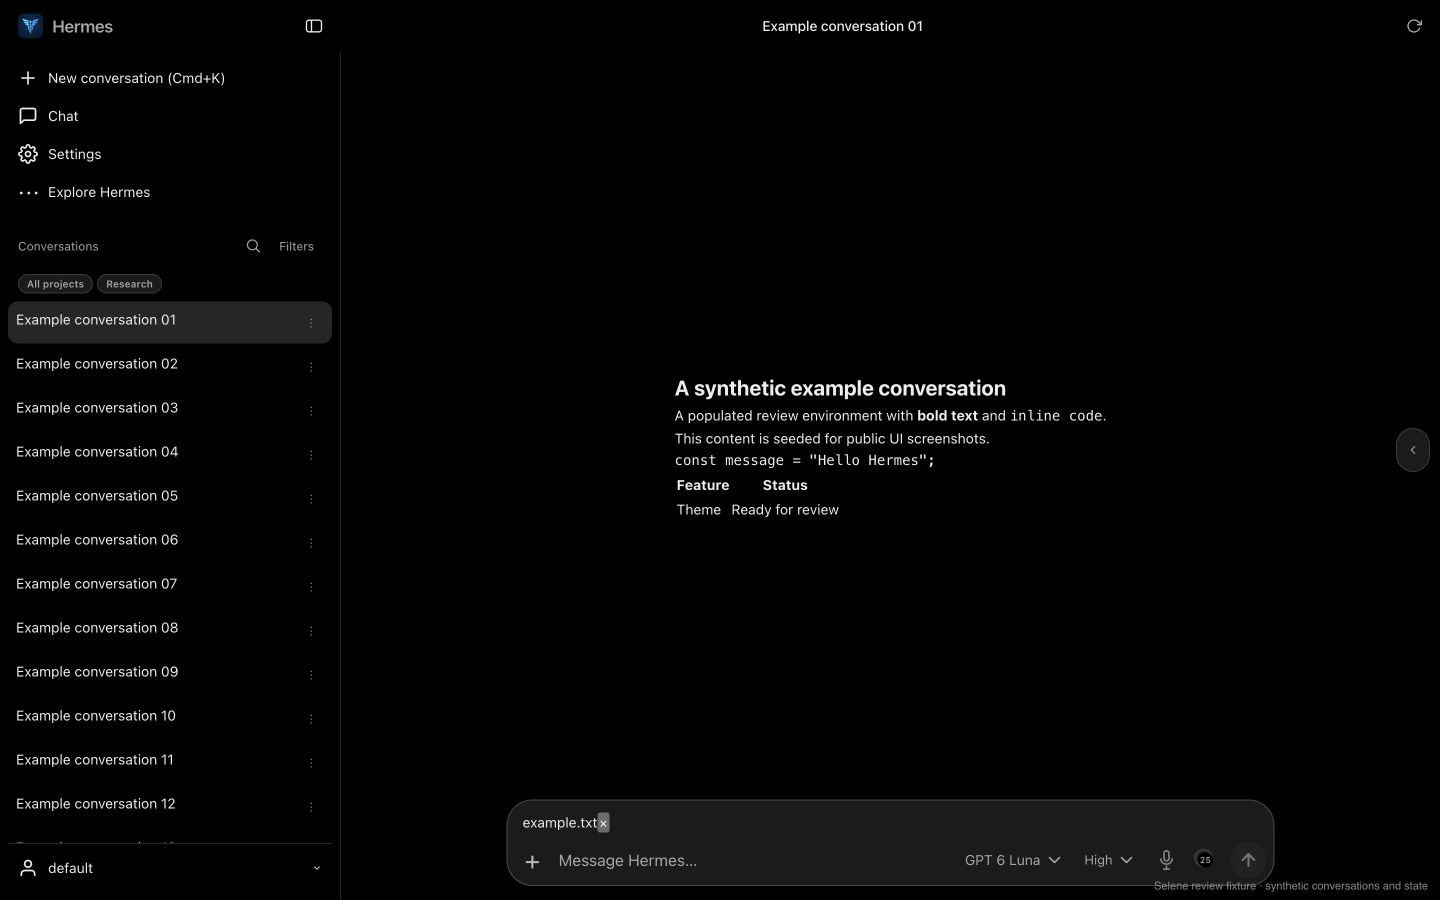
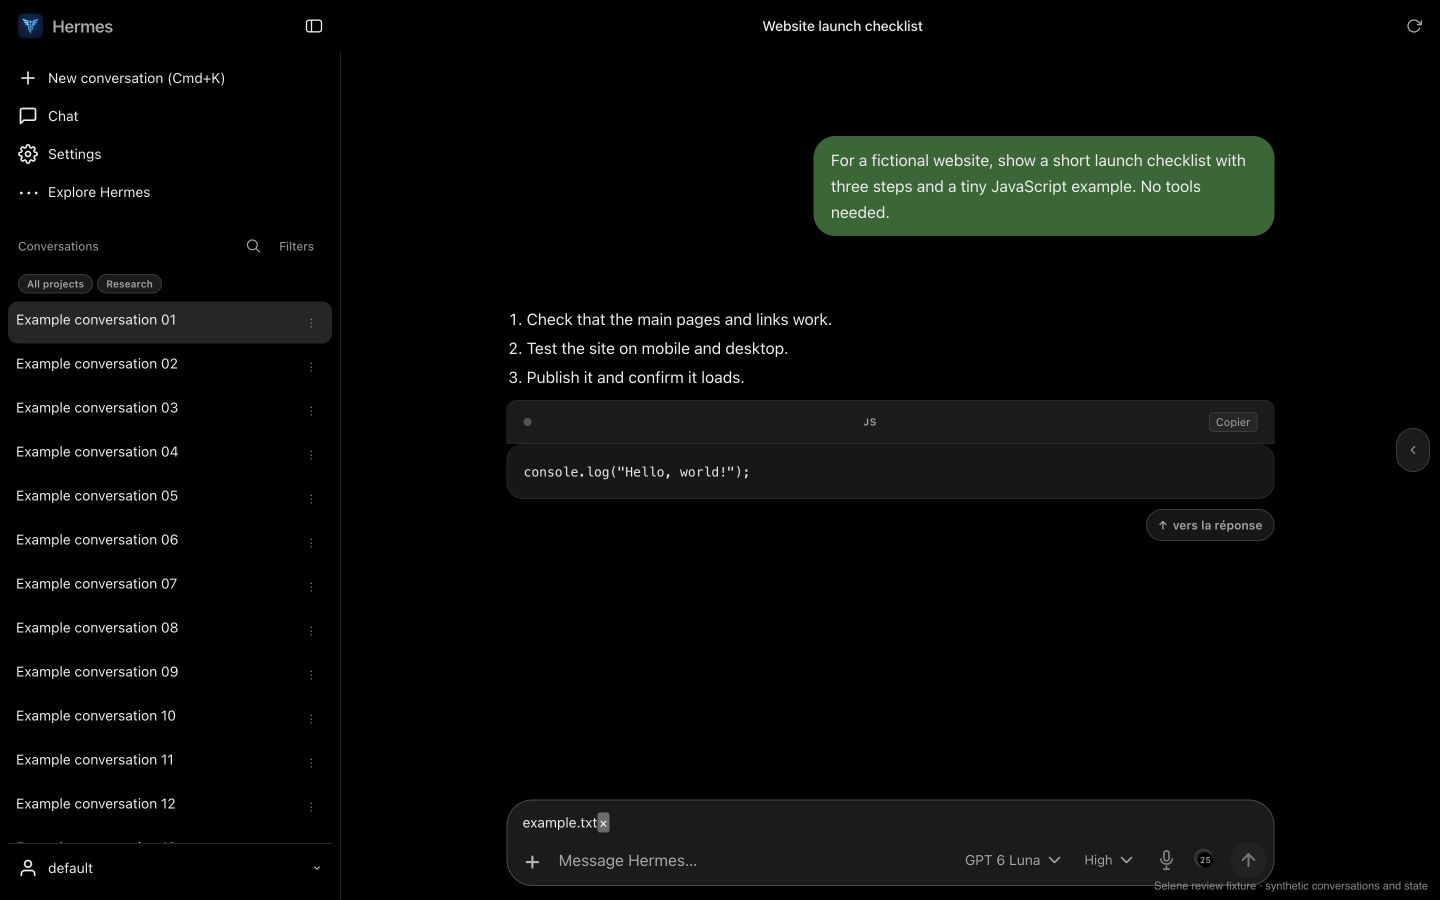
Refresh Selene screenshots with native user and assistant messages

diff --git a/extensions/selene/docs/VALIDATION.md b/extensions/selene/docs/VALIDATION.md
@@ -26,7 +26,7 @@ The native-composer fixture verified 4 px gaps between desktop model, visible re
 
 Testing used a browser viewport, not an exhaustive matrix of physical Android/iOS devices, software keyboards or installed PWA versions. Theme animation durations were compared visually and through computed styles; every native interaction and streaming state has not been measured. Hermes updates may require selector adjustments.
 
-Screenshots are captured from a neutral welcome screen or cropped navigation, without conversation history, credentials or installation-specific endpoints. They are UI evidence, not generated mockups.
+Main screenshots are captured from an intentionally created public demo conversation in the installed WebUI, with private sidebar history hidden. Navigation crops and synthetic review fixtures contain no private history, credentials or installation-specific endpoints. They are UI evidence, not generated mockups.
 
 ## Distribution checks
 
@@ -48,3 +48,7 @@ A populated local fixture used the installed `exp-v0.52.404` native template and
 Current upstream core master was independently tested by the maintainer on the previous PR head. This revision still requires their gates to be rerun; local fixture checks do not claim that those remote checks have passed.
 
 Installed follow-up: the real sidebar scroll area contained 10,024 px of content. Scrolling to 9,412.5 px left the profile footer at y=663 in a 720 px viewport. At 390 by 844, the footer stayed at y=783, the drawer measured 360 px and microphone/add targets measured 44 px. The native profile dropdown stayed inside the viewport; no profile was changed. No browser errors were recorded.
+
+## Conversation captures (1.1.2)
+
+The public demo was sent through the actual installed Hermes chat UI and renamed through the native header interaction. Desktop Light/Dark and 390 px mobile Light/Dark show its native user/assistant rows, numbered checklist, JavaScript block and message actions. No application tools were needed for the demo response. Review fixtures reuse this benign native message markup while sidebar data, context/quota and dictation remain seeded or simulated. Welcome captures are intentionally empty. The original Dark mode and open desktop sidebar preferences were restored after capture. No runtime assets changed in this release.

diff --git a/extensions/selene/README.md b/extensions/selene/README.md
@@ -2,14 +2,16 @@
 
 Minimal light and dark theme for [Hermes WebUI](https://github.com/nesquena/hermes-webui), with a centered welcome composer, a files and tools menu, responsive controls and a unified sidebar with a pinned profile switcher.
 
-![Selene on desktop in dark mode](screenshots/desktop-dark.png)
+![Selene conversation on desktop in dark mode](screenshots/desktop-dark.png)
 
 <p>
-  <img src="screenshots/mobile-dark.png" alt="Selene on mobile in dark mode" width="270">
+  <img src="screenshots/mobile-dark.png" alt="Selene conversation on mobile in dark mode" width="270">
   <img src="screenshots/sidebar-dark.png" alt="Indented Explore Hermes navigation" width="260">
 </p>
 
-![Selene on desktop in light mode](screenshots/desktop-light.png)
+![Selene conversation on desktop in light mode](screenshots/desktop-light.png)
+
+The main screenshots show a real Hermes-rendered demo conversation about a fictional website: a user bubble, assistant checklist, JavaScript code and native message actions. [Mobile Light](screenshots/mobile-light.png) shows the same conversation in the other palette. Private history is hidden.
 
 ## What changes
 

diff --git a/extensions/selene/screenshots/review/README.md b/extensions/selene/screenshots/review/README.md
@@ -1,6 +1,6 @@
 # Review screenshots
 
-These browser captures use the installed Hermes WebUI template and stylesheet in a local fixture with 24 synthetic conversations. Context/quota, attachments, conversation actions and dictation states are seeded or simulated; they do not contain private data and are not proof of STT or backend service operation.
+These browser captures use the installed Hermes WebUI template and stylesheet in a local fixture with 24 synthetic sidebar conversations. Populated chat views reuse the native user/assistant message markup from the public website-launch demo, including a numbered checklist and JavaScript block. Context/quota, attachments, conversation actions and dictation states are seeded or simulated; they do not contain private data and are not proof of STT or backend service operation.
 
 - [Collapsed desktop, dark](desktop-collapsed-dark.png) and [light](desktop-collapsed-light.png)
 - [Pinned desktop profile after scrolling](desktop-profile-pinned.png) and [mobile](mobile-profile-pinned.png)

diff --git a/extensions/selene/CHANGELOG.md b/extensions/selene/CHANGELOG.md
@@ -1,5 +1,10 @@
 # Changelog
 
+## 1.1.2 — 2026-10-07
+
+- Replace the main desktop/mobile screenshots with a real rendered demo conversation, including user/assistant messages, a checklist and code.
+- Add Mobile Light and refresh populated review captures with native message markup. Runtime JavaScript and CSS are unchanged.
+
 ## 1.1.1 — 2026-10-07
 
 - Apply the 44 px mobile minimum to the pinned profile button and add-menu rows as well as the composer controls.
